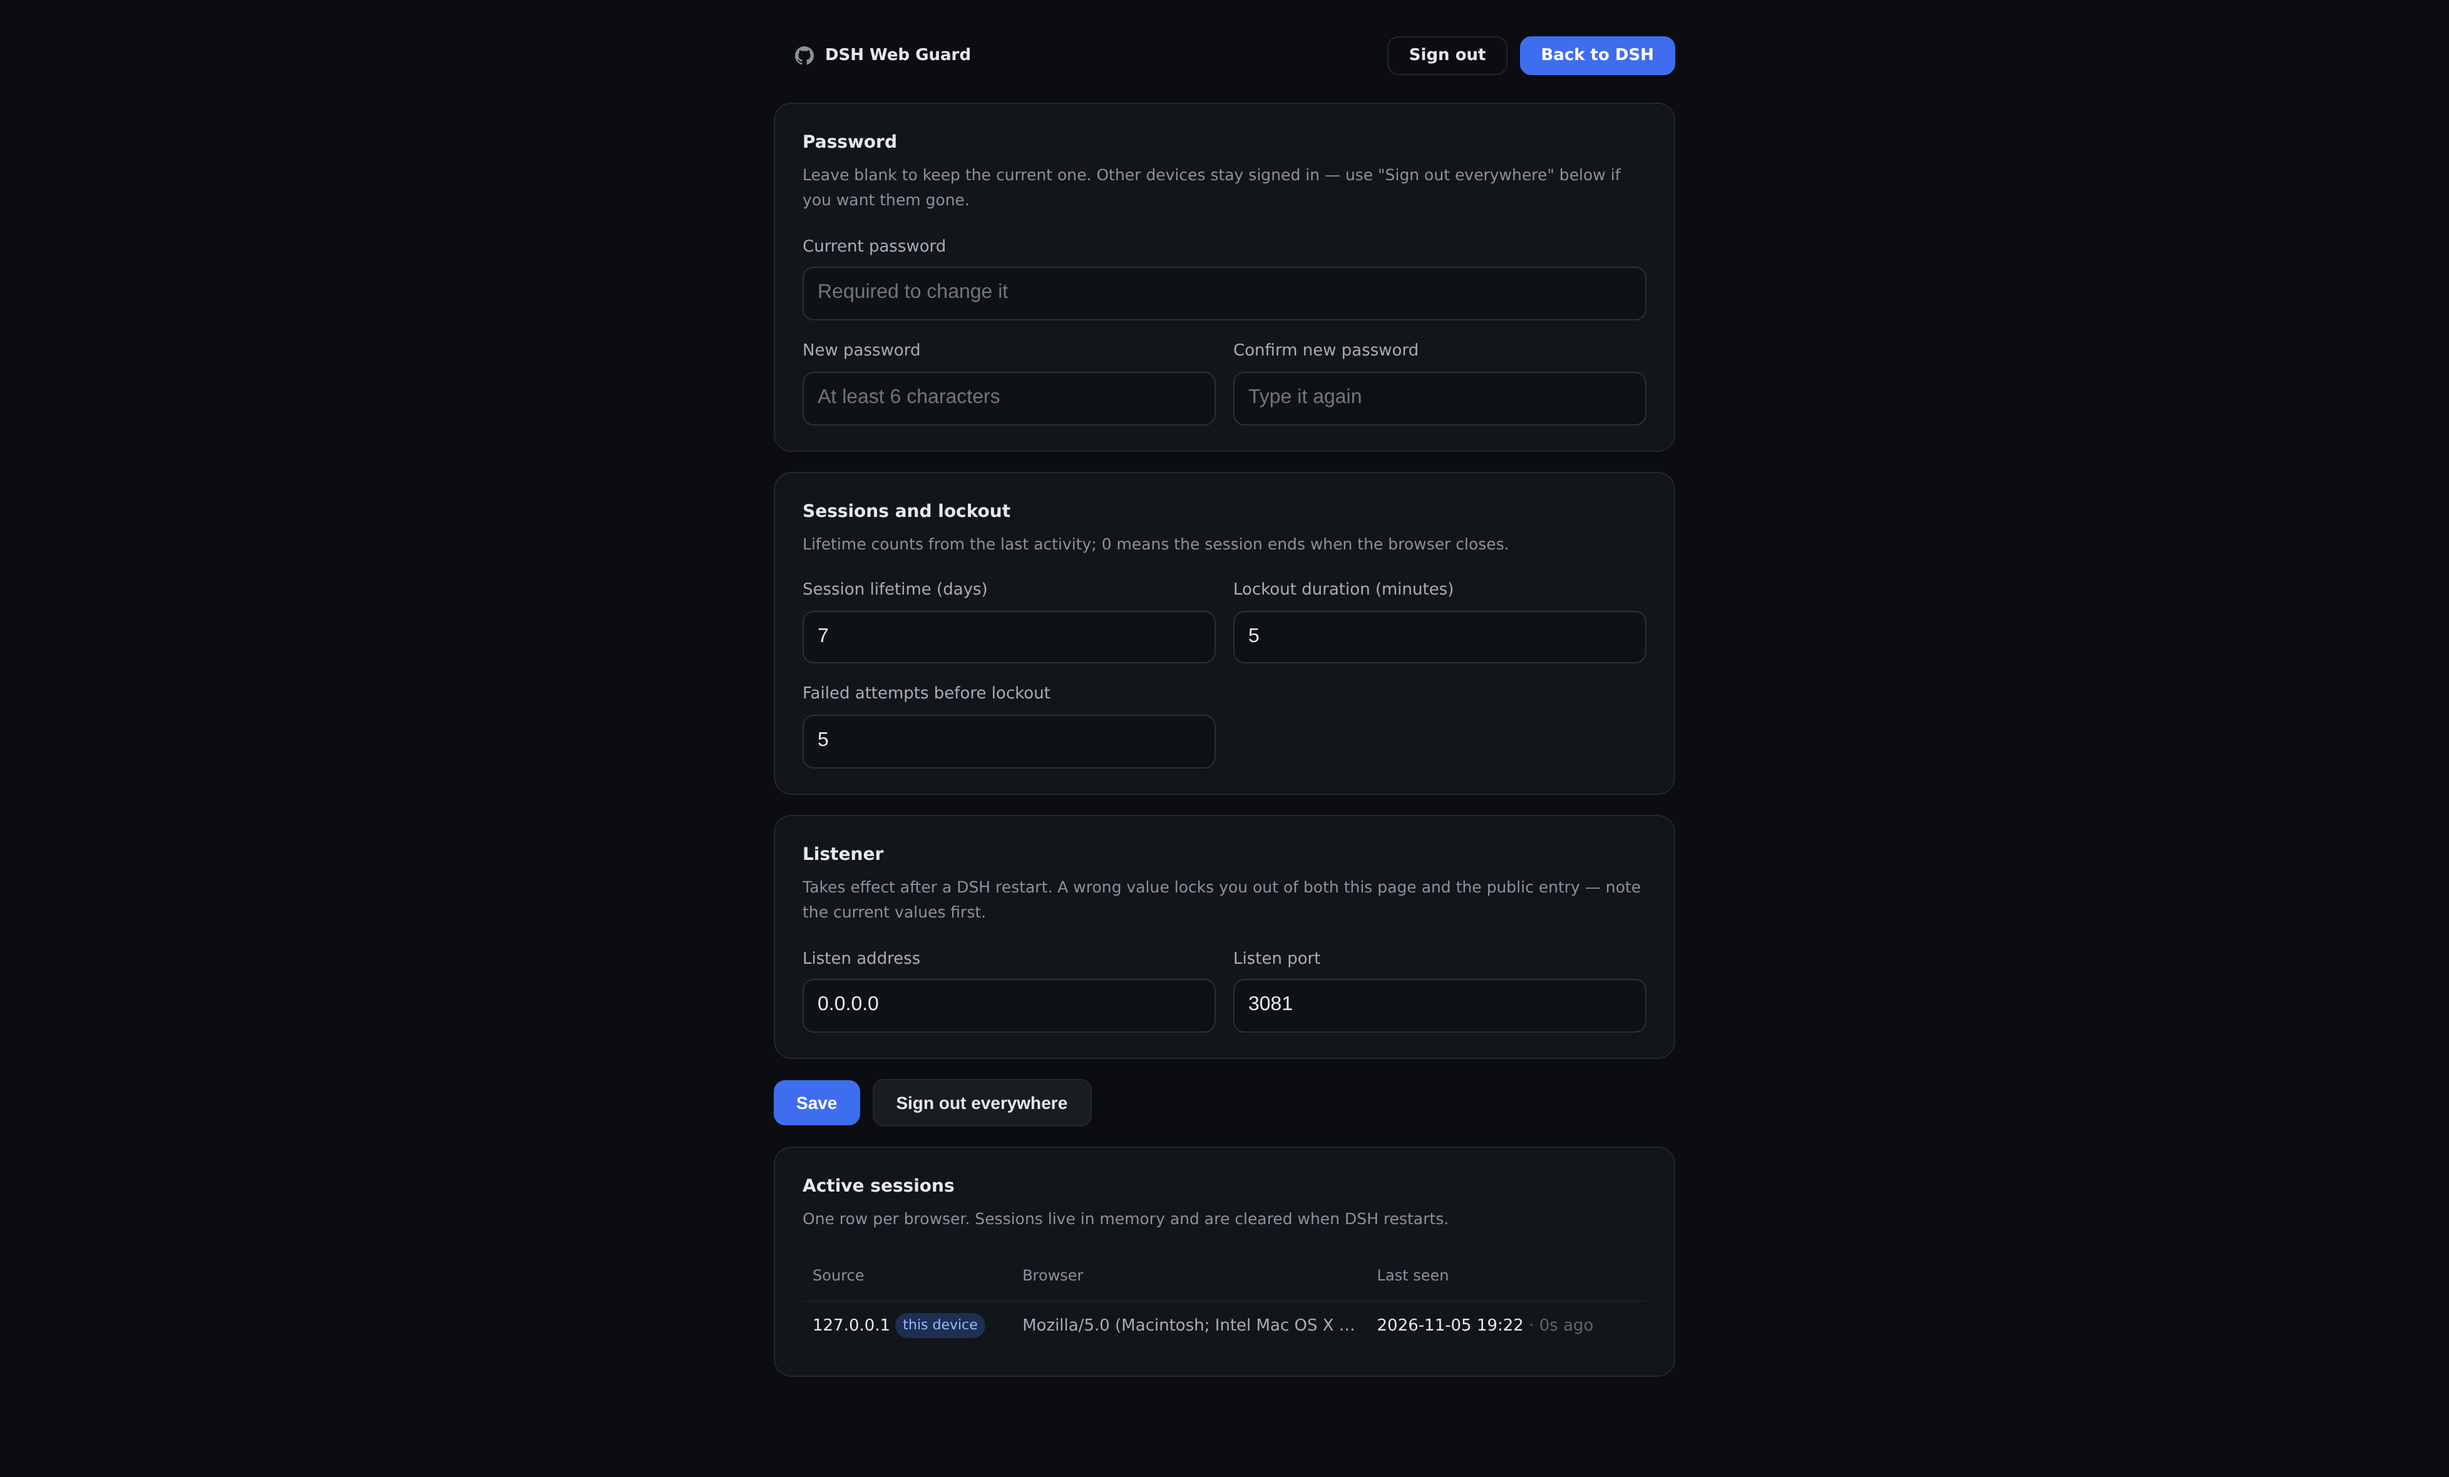
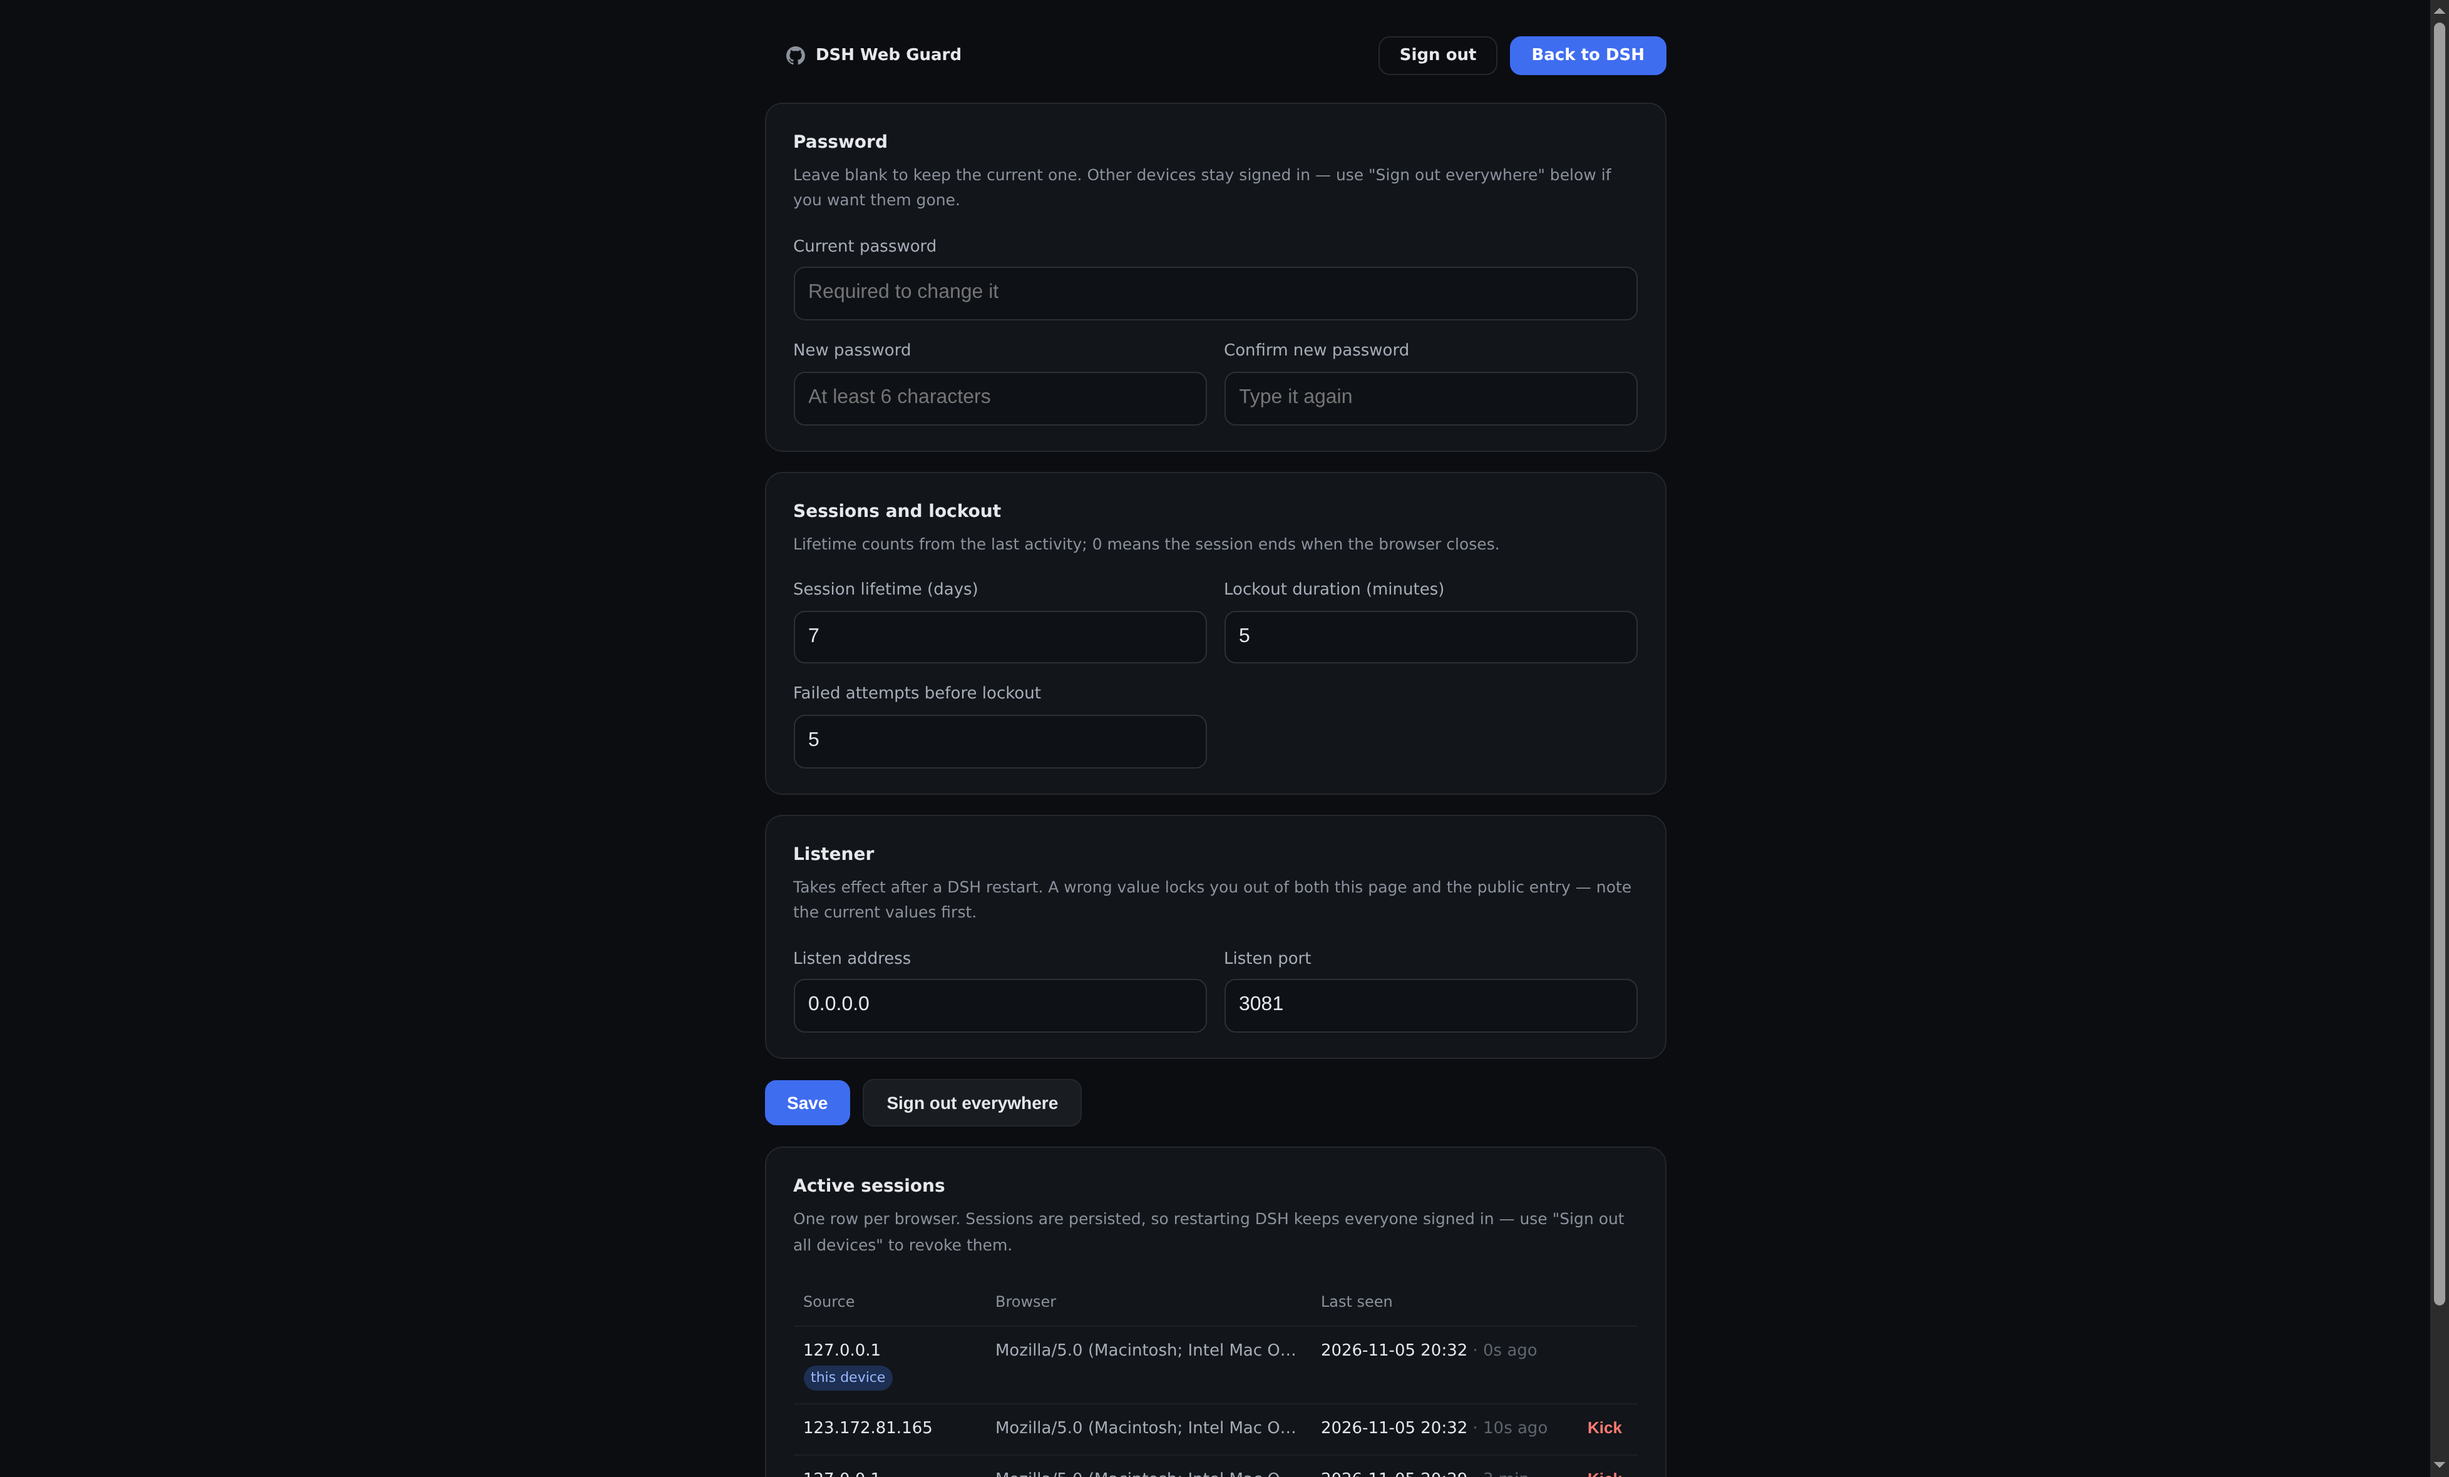
docs(2.1.1): correct the session story everywhere
README (both languages), the admin page hint and its screenshots all
still said sessions live in memory and a restart signs everyone out.
They are persisted now, and revocation is the explicit 'sign out all
devices' action. Also documents the dead-session redirect.

diff --git a/lib/i18n.js b/lib/i18n.js
@@ -114,7 +114,7 @@ const ZH = {
   signOutAll: '退出所有设备',
   confirmSignOutAll: '将退出所有设备上的登录，包括当前这个。继续？',
   secSessions: '活跃会话',
-  hintSessions: '每个浏览器一条记录。会话存在内存里，重启 DSH 会全部失效。',
+  hintSessions: '每个浏览器一条记录。会话落盘保存，重启 DSH 不会把人踢下线；要全员下线请点「退出所有设备」。',
   colSource: '来源',
   colBrowser: '浏览器',
   colLastSeen: '最后活动',
@@ -169,7 +169,7 @@ const EN = {
   signOutAll: 'Sign out everywhere',
   confirmSignOutAll: 'This signs out every device, including this one. Continue?',
   secSessions: 'Active sessions',
-  hintSessions: 'One row per browser. Sessions live in memory and are cleared when DSH restarts.',
+  hintSessions: 'One row per browser. Sessions are persisted, so restarting DSH keeps everyone signed in — use "Sign out all devices" to revoke them.',
   colSource: 'Source',
   colBrowser: 'Browser',
   colLastSeen: 'Last seen',

diff --git a/README.md b/README.md
@@ -173,9 +173,20 @@ node -e "import('./lib/auth.js').then(m=>console.log(m.hashPassword(process.argv
 - Session tokens are stored server-side as SHA-256 digests; cookies are `HttpOnly`, `SameSite=Lax`, and `Secure` when TLS is on.
 - Login POSTs are checked for a same-hostname `Origin`. The session cookie's `SameSite` attribute is the primary CSRF defence.
 - Repeated failures from one IP trigger a temporary lock (in-memory, cleared on restart).
-- `/logout` ends the current browser session. To revoke everything, change the password and restart, or delete `$DSH_HOME/dsh-web-guard.json`.
+- **The session table is cached on disk** (`<profile>/data/dsh-web-guard-sessions-<port>.json`, mode `0600`, atomic tmp+rename), so **restarting DSH no longer signs signed-in browsers out**. The file holds SHA-256 digests, never tokens — neither the cache nor a heap dump can mint a working cookie. The filename carries the listener port, so a shadow instance cannot overwrite the live one.
+- `/logout` ends the current browser session. To revoke everything (a suspected leak, say), use the admin page's **sign out all devices** — **a restart is not a revocation any more**.
 
 **This is not multi-user.** One password, one privilege level. The harness agent can execute code, so anyone who gets in has code execution on that host — which is the product's design, not a bug in the gate.
+
+## When the session is gone
+
+If the session disappears (password changed, sign-out-all, or no activity within `sessionDays`), an open tab does not sit on "reconnecting" forever:
+
+- it probes `/__guard/session` when the tab becomes visible, when the network comes back, after a WebSocket close, and every 30 seconds
+- only an explicit **401** triggers a redirect — a failed fetch (offline, server restarting) never does
+- the redirect carries `?next=`, so you land back where you were after signing in
+
+Restarts (upgrades, config changes) are invisible: the session table is restored from disk and the page reconnects on its own.
 
 ## Admin page
 

diff --git a/README.zh.md b/README.zh.md
@@ -167,9 +167,20 @@ node -e "import('./lib/auth.js').then(m=>console.log(m.hashPassword(process.argv
 - 会话 token 服务端只存 SHA-256 摘要；cookie 是 `HttpOnly` + `SameSite=Lax`，启用 TLS 时加 `Secure`。
 - 登录 POST 校验 `Origin` 的 hostname 与请求 `Host` 一致（只比 hostname，因为反代常剥端口）。CSRF 的第一道防线仍是 `SameSite`。
 - 同一 IP 连续失败会临时锁定（内存计数，重启清零）。
-- `/logout` 只退当前浏览器；要全部吊销就改密码并重启，或删掉 `$DSH_HOME/dsh-web-guard.json`。
+- **会话表现在会落盘**（`<profile>/data/dsh-web-guard-sessions-<port>.json`，`0600`，临时文件 + rename 原子写入），所以**重启 DSH 不会把已登录的浏览器踢下线**。文件里存的同样是 SHA-256 摘要，不是 token——拿到这个文件或内存 dump 都无法伪造 cookie。文件名带监听端口，影子实例不会覆盖正式实例。
+- `/logout` 只退当前浏览器。要全部吊销（比如怀疑泄露），用管理页的**退出所有设备**：**重启不再等于吊销**。
 
 **这不是多用户系统**：一个密码，一个权限级别。DSH 的 agent 本身能执行代码，任何登录者都拥有该机器的执行权限——这是产品设计，不是闸门的缺陷。
+
+## 掉线之后
+
+会话没了（改过密码、点了退出所有设备、或超过 `sessionDays` 没活动）时，已经开着的标签页不会卡在"重新连接中"：
+
+- 切回标签页、网络恢复、WebSocket 断开、以及每 30 秒，页面都会向 `/__guard/session` 探一次
+- 只有拿到明确的 **401** 才跳转（断网导致的请求失败不会误判）
+- 跳转目标带 `?next=`，登录后回到原来那个地址
+
+需要重启（升级、改配置）则完全无感：会话表会从磁盘恢复，页面自己重连回来。
 
 ## 管理页
 

diff --git a/CHANGELOG.md b/CHANGELOG.md
@@ -1,5 +1,13 @@
 # Changelog
 
+## 2.1.1 — 2026-11-05
+
+### Docs
+
+- README and the admin page now describe the persisted session cache and the dead-session redirect; both still claimed sessions lived in memory and that a restart signed everyone out.
+- Screenshots re-shot with the corrected wording.
+
+
 ## 2.1.0 — 2026-11-05
 
 ### Added
